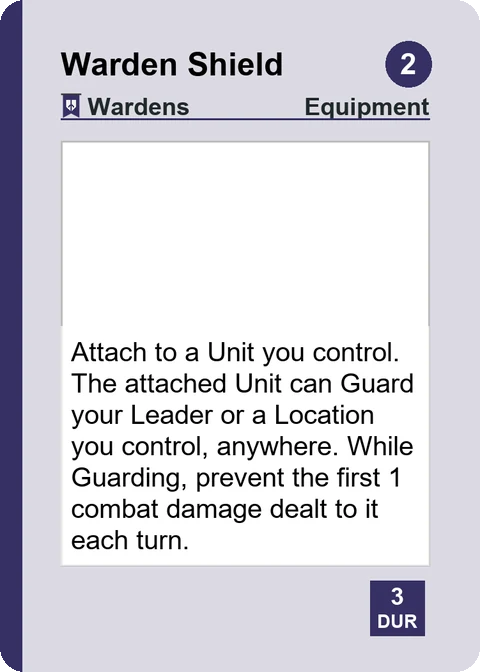
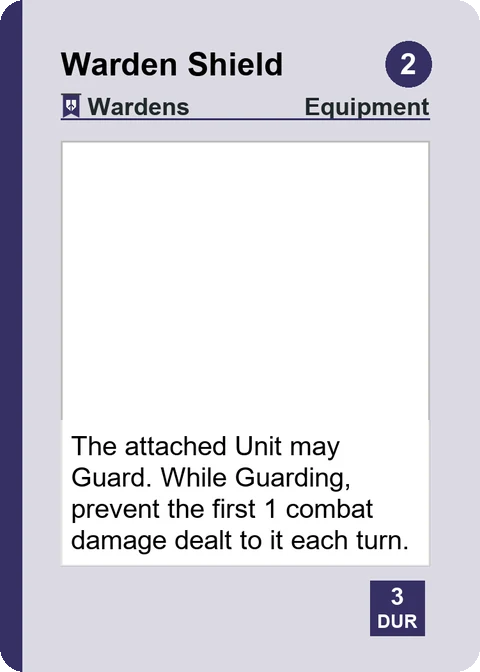
Site r40d: rule lines hold all 9, current example cards, Leaders at 12 Health (Kyle: push it, 2026-11-15)

Changed region(s): [[0.125, 0.5, 0.875, 0.8438]]

diff --git a/index.html b/index.html
@@ -223,12 +223,12 @@ header { position: relative; }
   <picture class="ai-art">
     <source media="(max-width: 1100px)" srcset="img/hero-1024.jpg">
     <img src="img/hero.jpg" width="1920" height="1080"
-         alt="The Dustbanners title over a painted frontier map, with six placeholder cards fanned out: a Frontier Disaster card, a Leader, a Companion, a Tactic, an Equipment card and a Unit. Each card shows a generic name and its real rules text. Placeholder art (AI-made). Final art by human artists.">
+         alt="The Dustbanners title over a painted frontier map, with six placeholder cards fanned out: a Frontier Disaster card, a Leader, a Companion, a Tactic, a Vehicle card and a Unit. Each card shows a generic name and its real rules text. Placeholder art (AI-made). Final art by human artists.">
   </picture>
   <picture class="free-art">
     <source media="(max-width: 1100px)" srcset="img/hero-free-1024.jpg">
     <img src="img/hero-free.jpg" width="1920" height="1080"
-         alt="The Dustbanners title on a plain dark background, with the same six cards fanned out: a Frontier Disaster card, a Leader, a Companion, a Tactic, an Equipment card and a Unit. The art boxes are empty.">
+         alt="The Dustbanners title on a plain dark background, with the same six cards fanned out: a Frontier Disaster card, a Leader, a Companion, a Tactic, a Vehicle card and a Unit. The art boxes are empty.">
   </picture>
   <figcaption class="ai-art">Placeholder art (AI-made). Final art by human artists.</figcaption>
 </figure>
@@ -287,7 +287,7 @@ header { position: relative; }
 <section id="teaser">
   <h2 class="sentence">Eighty years after the fall, the valley still has nine outposts worth holding.</h2>
   <div class="panel">
-    <p>Dustbanners is a two-player card game set on a broken frontier, about eighty years after the world fell apart. You lead a Banner into a valley of nine places. Every faction flies a banner, and in this game the side you lead is called a Banner. Break the other side&rsquo;s Leader, or hold eight of the nine at the end of any turn. Your rival is not your only trouble. The Frontier throws storms, wild animals and strange finds at both of you, and you have to face them.</p>
+    <p>Dustbanners is a two-player card game set on a broken frontier, about eighty years after the world fell apart. You lead a Banner into a valley of nine places. Every faction flies a banner, and in this game the side you lead is called a Banner. Break the other side&rsquo;s Leader, or hold all nine at the end of a turn. Your rival is not your only trouble. The Frontier throws storms, wild animals and strange finds at both of you, and you have to face them.</p>
     <p>What&rsquo;s in it for you:</p>
     <ul class="points">
       <li><strong>A world that will grow.</strong> Each season will add a chapter of the story, and new cards will come from it.</li>
@@ -321,12 +321,13 @@ header { position: relative; }
   <div class="panel">
     <p>Dustbanners is a two-player card game of survival on a broken frontier. Each of you leads a faction into a valley of
     nine places. Plan with your own deck, deal with a shared Frontier Deck of storms, finds and trouble, and win by breaking
-    the enemy Leader or holding eight of the nine places.</p>
+    the enemy Leader or holding all nine places.</p>
     <ul class="points">
       <li>2 players, ages 14 and up.</li>
       <li>The first box has two factions: the Wardens (&ldquo;How do we protect what&rsquo;s ours?&rdquo;) and the Raiders
       (&ldquo;What can we take?&rdquo;). Each Banner has two Leaders and two Companions to choose from.</li>
-      <li>Two ways to win, and both are always open: break the enemy Leader, or hold 8 of the 9 places at the end of any turn.</li>
+      <li>Two ways to win, and both are always open: break the enemy Leader, or hold all 9 places at the end of a turn.</li>
+      <li>Each player draws 5 opening cards, and both players start their first turn with 3 Supply.</li>
       <li>The Frontier Deck turns up something every turn (a storm, a wild animal, a find) that both of you have to deal with.</li>
       <li>No random packs. Every box has the same cards.</li>
       <li>More factions to come.</li>
@@ -358,43 +359,43 @@ header { position: relative; }
     <ul class="card-grid">
       <li>
         <h3>Leader</h3>
-        <img class="ai-art" src="img/card-leader.webp" width="480" height="672" loading="lazy" alt="A Leader card named Warden Leader. HP 21. Its rules say: [1/Opp Turn] The first time a Unit or Companion you control would take damage, you may pay 1 Supply: prevent 1 damage. [1/Opp Turn] After your Unit Guards, prevents damage, or survives combat while defending, give one of your ready Units +1 Attack through your next turn. This bonus cannot stack with itself on one Unit. The picture in the card is AI-made. Placeholder art (AI-made).">
-        <img class="free-art" src="img/card-leader-free.webp" width="480" height="672" loading="lazy" alt="A Leader card named Warden Leader. HP 21. Its rules say: [1/Opp Turn] The first time a Unit or Companion you control would take damage, you may pay 1 Supply: prevent 1 damage. [1/Opp Turn] After your Unit Guards, prevents damage, or survives combat while defending, give one of your ready Units +1 Attack through your next turn. This bonus cannot stack with itself on one Unit. The art box is empty.">
+        <img class="ai-art" src="img/card-leader.webp" width="480" height="672" loading="lazy" alt="A Leader card named Warden Leader. HP 12. Its rules say: [1/Opp Turn] The first time a Unit or Companion you control would take damage, you may pay 1 Supply: prevent 1 damage. [1/Opp Turn] After your Unit Guards, prevents damage, or survives combat while defending, give one of your ready Units +1 Attack through your next turn. This bonus cannot stack with itself on one Unit. The picture in the card is AI-made. Placeholder art (AI-made).">
+        <img class="free-art" src="img/card-leader-free.webp" width="480" height="672" loading="lazy" alt="A Leader card named Warden Leader. HP 12. Its rules say: [1/Opp Turn] The first time a Unit or Companion you control would take damage, you may pay 1 Supply: prevent 1 damage. [1/Opp Turn] After your Unit Guards, prevents damage, or survives combat while defending, give one of your ready Units +1 Attack through your next turn. This bonus cannot stack with itself on one Unit. The art box is empty.">
         <p class="small ai-art pic-note">Placeholder art (AI-made). Final art by human artists.</p>
         <p>Your Leader leads your Banner. If your Leader is defeated, you lose.</p>
       </li>
       <li>
         <h3>Companion</h3>
-        <img class="ai-art" src="img/card-companion.webp" width="480" height="672" loading="lazy" alt="A Companion card named Guard Pig. ATK 1, RET 3, HP 6. Its rules say: Guard Pig can Guard one of your Units or Companions, or your Leader, anywhere. [1/Opp Turn] After combat ends, if Guard Pig Guarded and remains in play, ready one other Unit you control at the attacked Location. The picture in the card is AI-made. Placeholder art (AI-made).">
-        <img class="free-art" src="img/card-companion-free.webp" width="480" height="672" loading="lazy" alt="A Companion card named Guard Pig. ATK 1, RET 3, HP 6. Its rules say: Guard Pig can Guard one of your Units or Companions, or your Leader, anywhere. [1/Opp Turn] After combat ends, if Guard Pig Guarded and remains in play, ready one other Unit you control at the attacked Location. The art box is empty.">
+        <img class="ai-art" src="img/card-companion.webp" width="480" height="672" loading="lazy" alt="A Companion card named Guard Pig. ATK 1, RET 3, HP 6. Its rules say: Guard Pig may Guard a Unit, Companion, or your Leader at Guard Pig&#x27;s Location. [1/Opp Turn] After combat ends, if Guard Pig Guarded and remains in play, ready one other Unit you control at that Location. The picture in the card is AI-made. Placeholder art (AI-made).">
+        <img class="free-art" src="img/card-companion-free.webp" width="480" height="672" loading="lazy" alt="A Companion card named Guard Pig. ATK 1, RET 3, HP 6. Its rules say: Guard Pig may Guard a Unit, Companion, or your Leader at Guard Pig&#x27;s Location. [1/Opp Turn] After combat ends, if Guard Pig Guarded and remains in play, ready one other Unit you control at that Location. The art box is empty.">
         <p class="small ai-art pic-note">Placeholder art (AI-made). Final art by human artists.</p>
         <p>A Companion is an animal or a person who fights beside your Leader. If it is defeated, you can bring it back.</p>
       </li>
       <li>
         <h3>Unit</h3>
-        <img class="ai-art" src="img/card-unit.webp" width="480" height="672" loading="lazy" alt="A Unit card named Warden Healer. Cost 2. ATK 1, RET 2, HP 3. Its rules say: Once each turn after a Unit or Companion at Warden Healer&#x27;s Location is dealt damage and remains in play, you may exhaust Warden Healer to Restore 1 damage from it. The picture in the card is AI-made. Placeholder art (AI-made).">
-        <img class="free-art" src="img/card-unit-free.webp" width="480" height="672" loading="lazy" alt="A Unit card named Warden Healer. Cost 2. ATK 1, RET 2, HP 3. Its rules say: Once each turn after a Unit or Companion at Warden Healer&#x27;s Location is dealt damage and remains in play, you may exhaust Warden Healer to Restore 1 damage from it. The art box is empty.">
+        <img class="ai-art" src="img/card-unit.webp" width="480" height="672" loading="lazy" alt="A Unit card named Warden Healer. Cost 2. ATK 1, RET 2, HP 3. Its rules say: Once each turn after a Unit or Companion is dealt damage and remains in play, you may exhaust Warden Healer to Restore 1 damage from it. The picture in the card is AI-made. Placeholder art (AI-made).">
+        <img class="free-art" src="img/card-unit-free.webp" width="480" height="672" loading="lazy" alt="A Unit card named Warden Healer. Cost 2. ATK 1, RET 2, HP 3. Its rules say: Once each turn after a Unit or Companion is dealt damage and remains in play, you may exhaust Warden Healer to Restore 1 damage from it. The art box is empty.">
         <p class="small ai-art pic-note">Placeholder art (AI-made). Final art by human artists.</p>
         <p>Units are your Banner&rsquo;s people. They move, attack, defend and capture places.</p>
       </li>
       <li>
         <h3>Tactic</h3>
-        <img class="ai-art" src="img/card-tactic.webp" width="480" height="672" loading="lazy" alt="A Tactic card named Fall Back. Cost 1. Its rules say: Redeploy one damaged Unit or Companion you control to an adjacent Location you control. Prevent the next 1 damage that would be dealt to it this turn. The picture in the card is AI-made. Placeholder art (AI-made).">
-        <img class="free-art" src="img/card-tactic-free.webp" width="480" height="672" loading="lazy" alt="A Tactic card named Fall Back. Cost 1. Its rules say: Redeploy one damaged Unit or Companion you control to an adjacent Location you control. Prevent the next 1 damage that would be dealt to it this turn. The art box is empty.">
+        <img class="ai-art" src="img/card-tactic.webp" width="480" height="672" loading="lazy" alt="A Tactic card named Fall Back. Cost 1. Its rules say: After attackers are declared, move one damaged Unit or Companion you control to an adjacent Location you control. Prevent the next 1 damage that would be dealt to it this turn. The picture in the card is AI-made. Placeholder art (AI-made).">
+        <img class="free-art" src="img/card-tactic-free.webp" width="480" height="672" loading="lazy" alt="A Tactic card named Fall Back. Cost 1. Its rules say: After attackers are declared, move one damaged Unit or Companion you control to an adjacent Location you control. Prevent the next 1 damage that would be dealt to it this turn. The art box is empty.">
         <p class="small ai-art pic-note">Placeholder art (AI-made). Final art by human artists.</p>
         <p>A Tactic is a one-time action. Do what it says, then put it in your discard pile, the Ditch.</p>
       </li>
       <li>
         <h3>Equipment</h3>
-        <img class="ai-art" src="img/card-equipment.webp" width="480" height="672" loading="lazy" alt="An Equipment card named Warden Shield. Cost 2. DUR 3. Its rules say: Attach to a Unit you control. The attached Unit can Guard your Leader or a Location you control, anywhere. While Guarding, prevent the first 1 combat damage dealt to it each turn. The picture in the card is AI-made. Placeholder art (AI-made).">
-        <img class="free-art" src="img/card-equipment-free.webp" width="480" height="672" loading="lazy" alt="An Equipment card named Warden Shield. Cost 2. DUR 3. Its rules say: Attach to a Unit you control. The attached Unit can Guard your Leader or a Location you control, anywhere. While Guarding, prevent the first 1 combat damage dealt to it each turn. The art box is empty.">
+        <img class="ai-art" src="img/card-equipment.webp" width="480" height="672" loading="lazy" alt="An Equipment card named Warden Shield. Cost 2. DUR 3. Its rules say: The attached Unit may Guard. While Guarding, prevent the first 1 combat damage dealt to it each turn. The picture in the card is AI-made. Placeholder art (AI-made).">
+        <img class="free-art" src="img/card-equipment-free.webp" width="480" height="672" loading="lazy" alt="An Equipment card named Warden Shield. Cost 2. DUR 3. Its rules say: The attached Unit may Guard. While Guarding, prevent the first 1 combat damage dealt to it each turn. The art box is empty.">
         <p class="small ai-art pic-note">Placeholder art (AI-made). Final art by human artists.</p>
         <p>Equipment is gear. It goes on a card it names, or it sits at a place you control.</p>
       </li>
       <li>
         <h3>Structure</h3>
-        <img class="ai-art" src="img/card-structure.webp" width="480" height="672" loading="lazy" alt="A Structure card named Field Clinic. Cost 3. DUR 4. Its rules say: [1/Turn] [After Combat] After combat ends at this Location during your turn, you may pay 1 Supply. Restore 1 damage from one surviving Unit or Companion you control there. The picture in the card is AI-made. Placeholder art (AI-made).">
-        <img class="free-art" src="img/card-structure-free.webp" width="480" height="672" loading="lazy" alt="A Structure card named Field Clinic. Cost 3. DUR 4. Its rules say: [1/Turn] [After Combat] After combat ends at this Location during your turn, you may pay 1 Supply. Restore 1 damage from one surviving Unit or Companion you control there. The art box is empty.">
+        <img class="ai-art" src="img/card-structure.webp" width="480" height="672" loading="lazy" alt="A Structure card named Field Clinic. Cost 3. DUR 4. Its rules say: [1/Turn: After Combat] After combat ends at this Location during your turn, you may pay 1 Supply. Restore 1 damage from one surviving Unit or Companion you control there. The picture in the card is AI-made. Placeholder art (AI-made).">
+        <img class="free-art" src="img/card-structure-free.webp" width="480" height="672" loading="lazy" alt="A Structure card named Field Clinic. Cost 3. DUR 4. Its rules say: [1/Turn: After Combat] After combat ends at this Location during your turn, you may pay 1 Supply. Restore 1 damage from one surviving Unit or Companion you control there. The art box is empty.">
         <p class="small ai-art pic-note">Placeholder art (AI-made). Final art by human artists.</p>
         <p>A Structure is something you build at a place you control.</p>
       </li>
@@ -403,7 +404,7 @@ header { position: relative; }
         <img class="ai-art" src="img/card-location.webp" width="480" height="672" loading="lazy" alt="A Battlefield Location card named Mountain Road. DUR 4. Its rules say: Capture Reward - When a player Captures Mountain Road, that player draws 1 card, then discards 1 card. Routes: the West Yard; the Upper Junction. The picture in the card is AI-made. Placeholder art (AI-made).">
         <img class="free-art" src="img/card-location-free.webp" width="480" height="672" loading="lazy" alt="A Battlefield Location card named Mountain Road. DUR 4. Its rules say: Capture Reward - When a player Captures Mountain Road, that player draws 1 card, then discards 1 card. Routes: the West Yard; the Upper Junction. The art box is empty.">
         <p class="small ai-art pic-note">Placeholder art (AI-made). Final art by human artists.</p>
-        <p>A Location is one of the nine places on the map. Hold 8 of the 9 at the end of any turn to win.</p>
+        <p>A Location is one of the nine places on the map. Hold all 9 at the end of a turn to win.</p>
       </li>
       <li>
         <h3>Frontier card</h3>

diff --git a/proving-ground.html b/proving-ground.html
@@ -217,25 +217,25 @@ html.art-off .ai-art { display: none !important; }
       <p>Games that tried out possible changes: 14 rule options, one card change and one setting for the computer player.</p>
       <p>These are the games of the rule trials behind &lsquo;How a rule gets decided&rsquo;. The other games tested cards, decks and the program itself, and many of those tried changes too.</p></div>
     <div class="tile"><span class="big">120</span>
-      <p>Games played so far under the current rules. All 120 finished with a winner: none stalled, none crashed.</p></div>
+      <p>Games played in these rule trials, under the older rules (hold 8 of the 9). All 120 finished with a winner: none stalled, none crashed.</p></div>
   </div>
 </section>
 
 <section id="rules">
   <h2>The current rules</h2>
   <ul class="points">
-    <li>Hold 8 of the 9 places at the end of any turn to win. That is the rule today.</li>
+    <li>Hold all 9 places at the end of a turn to win. That is the rule today.</li>
     <li>Breaking the other side&rsquo;s Leader still wins too.</li>
-    <li>The second player draws 1 extra card in the opening hand.</li>
-    <li>The first player gets 1 less Supply on turn 1.</li>
+    <li>Each player draws 5 opening cards.</li>
+    <li>Both players start their first turn with 3 Supply.</li>
   </ul>
-  <p>The two turn 1 rules are part of the rules. They came with the change from hold 7 to hold 8: the second player draws 1 extra card in the opening hand, and the first player gets 1 less Supply on turn 1.</p>
-  <p class="fieldnote"><b>Where the numbers come from</b>Every result on this page comes from 120 games under these rules: 12 Banner pairings, 10 games each,
+  <p>The results below come from the older rules: hold 8 of the 9, the second player drew 1 extra opening card, and the first player got 1 less Supply on turn 1. They are not results for today's rules.</p>
+  <p class="fieldnote"><b>Where the numbers come from</b>Every result on this page comes from 120 games under those older rules: 12 Banner pairings, 10 games each,
   computer against computer.</p>
 </section>
 
 <section id="results">
-  <h2>Results under the current rules</h2>
+  <h2>Results under the older rules (hold 8)</h2>
 
   <h3 id="how-games-end">How games end</h3>
   <div class="chart">
@@ -322,9 +322,9 @@ html.art-off .ai-art { display: none !important; }
 
 <section id="decided">
   <h2>How a rule gets decided</h2>
-  <p>The rule for winning by holding places changed recently. Here is how that happened, step by step.</p>
+  <p>The rule for winning by holding places has changed more than once. Here is how the change from hold 7 to hold 8 happened, step by step.</p>
   <ol class="steps">
-    <li><strong>Spot the lean.</strong> Under the old rule, which needed one place fewer, most games ended by holding places,
+    <li><strong>Spot the lean.</strong> Under the hold-7 rule, which needed one place fewer than hold 8, most games ended by holding places,
     and the player who went first won more often than the player who went second.</li>
     <li><strong>Try the options on the same games.</strong> 14 rule options were played on the same starting setups, so a
     difference in the results comes from the rule, not from the shuffle.</li>
@@ -332,19 +332,19 @@ html.art-off .ai-art { display: none !important; }
     and the first player should win between 45% and 55%. Only one of the 14 options landed inside both targets in those games: holding 8
     of the 9 places, together with the extra opening card for the second player and 1 less Supply for the first player on
     turn 1. The other rule options missed one target or both.</li>
-    <li><strong>Kyle makes the call.</strong> The results go to Kyle, who decides. He chose that option, and it is now the
-    rule.</li>
+    <li><strong>Kyle makes the call.</strong> The results go to Kyle, who decides. He chose that option then. Later he changed the win to holding all 9 places, with the same opening for both players.
+    </li>
     <li><strong>Keep checking.</strong> 120 games is a first look, not the last word. Testing goes on as the game grows.</li>
   </ol>
   <div class="chart">
-    <div class="rows" role="img" aria-label="Same 120 starting setups, old rule against current rule. Won by holding: old rule 70.8 percent, current rules 51.7 percent. First player wins: old rule 62.5 percent, current rules 46.7 percent.">
-      <div class="row"><span class="lbl">Won by holding, old rule</span><span class="track"><span class="fill old" style="width:70.8%"></span><span class="mid"></span></span><span class="val">70.8%</span></div>
-      <div class="row"><span class="lbl">Won by holding, current rules</span><span class="track"><span class="fill" style="width:51.7%"></span><span class="mid"></span></span><span class="val">51.7%</span></div>
-      <div class="row"><span class="lbl">First player wins, old rule</span><span class="track"><span class="fill old" style="width:62.5%"></span><span class="mid"></span></span><span class="val">62.5%</span></div>
-      <div class="row"><span class="lbl">First player wins, current rules</span><span class="track"><span class="fill" style="width:46.7%"></span><span class="mid"></span></span><span class="val">46.7%</span></div>
+    <div class="rows" role="img" aria-label="Same 120 starting setups, hold 7 against hold 8. Won by holding: hold 7 70.8 percent, hold 8 51.7 percent. First player wins: hold 7 62.5 percent, hold 8 46.7 percent.">
+      <div class="row"><span class="lbl">Won by holding, hold 7</span><span class="track"><span class="fill old" style="width:70.8%"></span><span class="mid"></span></span><span class="val">70.8%</span></div>
+      <div class="row"><span class="lbl">Won by holding, hold 8</span><span class="track"><span class="fill" style="width:51.7%"></span><span class="mid"></span></span><span class="val">51.7%</span></div>
+      <div class="row"><span class="lbl">First player wins, hold 7</span><span class="track"><span class="fill old" style="width:62.5%"></span><span class="mid"></span></span><span class="val">62.5%</span></div>
+      <div class="row"><span class="lbl">First player wins, hold 8</span><span class="track"><span class="fill" style="width:46.7%"></span><span class="mid"></span></span><span class="val">46.7%</span></div>
     </div>
-    <p class="note">Both rule sets played the same 120 starting setups. Old rule: 85 of 120 games won by holding, and the first
-    player won 75 of 120. Current rules: 62 of 120 won by holding, and the first player won 56 of 120. The dashed line is
+    <p class="note">Both rule sets played the same 120 starting setups. Hold 7: 85 of 120 games won by holding, and the first
+    player won 75 of 120. Hold 8: 62 of 120 won by holding, and the first player won 56 of 120. The dashed line is
     an even 50%.</p>
   </div>
 </section>
